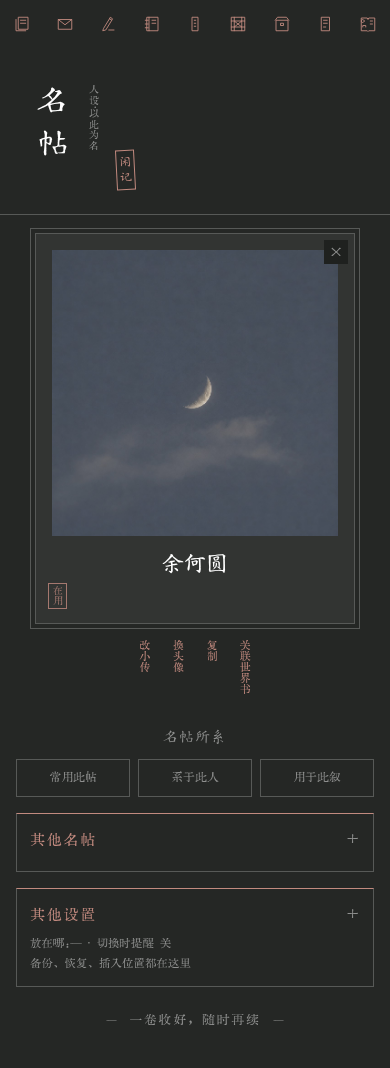
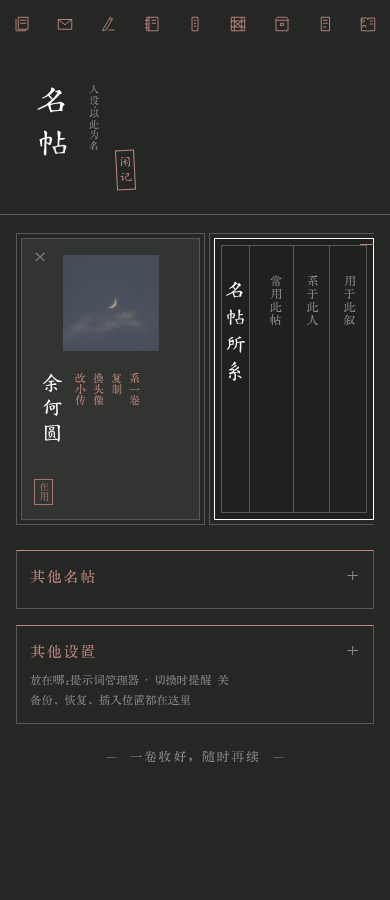
fix: restore compact persona card and downward settings expansion

diff --git a/tests/fixtures/folio-runtime.html b/tests/fixtures/folio-runtime.html
@@ -38,7 +38,7 @@
 <section id="user-settings-block" class="drawer-content openDrawer" hidden><input id="settingsSearch" placeholder="Search"><select id="themes"><option>Native theme</option></select><details><summary>主题设置</summary><div name="themeElements"><input type="range" value="50"></div></details><div name="CharacterHandlingToggles"><input type="checkbox"></div><div name="MiscellaneousToggles"><input type="checkbox"></div><div name="ChatMessageHandlingToggles"><input type="checkbox"></div><div name="AutoCompleteToggle" class="inline-drawer"><div class="inline-drawer-header inline-drawer-toggle"><b>输入提示</b><i class="inline-drawer-icon down"></i></div><div class="inline-drawer-content"><input type="checkbox"></div></div><div name="STscriptToggles"><input type="checkbox"></div></section>
 <section id="Backgrounds" class="drawer-content openDrawer bg-drawer-layout" hidden><div id="bg-header-fixed"><input id="bg-filter" placeholder="搜索背景"></div><div id="bg_tabs"><ul class="bg_tabs_list"><li>全局</li><li>聊天</li></ul><div id="bg_global_tab" class="bg_tab_panel"><div id="bg_menu_content"><div class="bg_example"><div class="thumbnail-clipper"><span class="BGSampleTitle">素纸</span></div><button class="mobile-only-menu-toggle" id="native-bg-menu">⋮</button><div class="jg-menu" hidden><button class="jg-button" data-action="edit" title="重命名">Edit</button></div></div></div></div></div><button id="bg-scroll-top">↑</button></section>
 <section id="rm_extensions_block" class="drawer-content openDrawer" hidden><div class="extensions_block"><div class="alignitemscenter"><div id="extensions_details" class="menu_button menu_button_icon interactable" role="button" tabindex="0">管理扩展</div><div id="third_party_extension_button" class="menu_button menu_button_icon interactable" role="button" tabindex="0">安装扩展</div></div><div id="extensions_settings2"><div class="inline-drawer"><div class="inline-drawer-header">正则</div><div class="inline-drawer-content"><input id="native-regex" value="pattern"></div></div><details id="native-extension-detail"><summary>代码渲染</summary><div class="inline-drawer"><div class="inline-drawer-header">渲染设置</div><div class="inline-drawer-content"><input value="render"></div></div></details></div></div></section>
-<section id="PersonaManagement" class="drawer-content openDrawer" hidden><div id="persona-management-block"><div class="persona_management_left_column"><div id="user_avatar_block"><div class="avatar-container selected" data-avatar-id="p1"><div class="avatar"><img src="../../assets/opening/light-avatar.jpg"></div></div></div></div><div class="persona_management_right_column"><h4>Persona</h4><textarea id="persona_description">行过山川，听人说话。</textarea><span id="your_name">余何圆</span><button id="persona_rename_button">Rename</button><button id="persona_set_image_button">Photo</button><button id="persona_duplicate_button">Duplicate</button><button id="persona_lore_button">Lore</button><button id="persona_delete_button">Delete</button><button id="lock_persona_default">Default</button><button id="lock_persona_to_char">Character</button><button id="lock_user_name">Chat</button></div></div></section>
+<section id="PersonaManagement" class="drawer-content openDrawer" hidden><div id="persona-management-block"><div class="persona_management_left_column"><div id="user_avatar_block"><div class="avatar-container selected" data-avatar-id="p1"><div class="avatar"><img src="../../assets/opening/light-avatar.jpg"></div></div></div></div><div class="persona_management_right_column"><h4>Persona</h4><textarea id="persona_description">行过山川，听人说话。</textarea><span id="your_name">余何圆</span><button id="persona_rename_button">Rename</button><button id="persona_set_image_button">Photo</button><button id="persona_duplicate_button">Duplicate</button><button id="persona_lore_button">Lore</button><button id="persona_delete_button">Delete</button><button id="lock_persona_default">Default</button><button id="lock_persona_to_char">Character</button><button id="lock_user_name">Chat</button><label>插入位置<select id="persona_description_position"><option value="0">提示词管理器</option><option value="1">作者注释</option></select></label><label><input id="persona_show_notifications" type="checkbox">切换时提醒</label></div></div></section>
 <section id="rm_characters_block" class="drawer-content openDrawer" hidden><input id="character_search_bar"><div id="rm_print_characters_block"><div class="character_select" chid="0"><div class="avatar"><img src="../../assets/opening/dark-avatar.jpg"></div><div class="character_select_container"><span class="ch_name">沈砚</span><span class="ch_description">檐下有雨，灯下有书。</span></div></div></div></section>
 <section id="rm_ch_create_block" class="drawer-content openDrawer" hidden><form id="form_create"><div id="avatar-and-name-block"><div id="avatar_div"><div id="avatar_div_div"><img id="avatar_load_preview" src="../../assets/opening/dark-avatar.jpg"></div></div><div id="name_div"><input id="character_name_pole" value="沈砚"></div><div id="avatar_controls"><button id="favorite_button">Favorite</button></div></div><div id="descriptionWrapper"><div id="description_div"><textarea id="description_textarea">山中旧友</textarea></div></div><div id="firstMessageWrapper"><textarea id="firstmessage_textarea">坐一会儿？</textarea></div></form></section>
 </main><div id="chat" hidden><div class="mes" is_user="false"><div class="mesAvatarWrapper"><div class="avatar"><img src="../../assets/opening/dark-avatar.jpg"></div><span class="timestamp">11月12日</span></div><div class="mes_block"><div class="ch_name"><span class="name_text">沈砚</span><div class="mes_buttons"><button id="native-edit">Edit</button></div></div><div class="mes_text"><p>疏雨过山，花影落在半卷书页上。</p></div></div></div><form id="send_form"><textarea placeholder="Message"></textarea></form>

diff --git a/assets/folio/folio.css b/assets/folio/folio.css
@@ -136,20 +136,24 @@ html.sb-bar.sb-folio #rm_print_characters_block .character_select .ch_descriptio
 html.sb-bar.sb-folio #rm_print_characters_block .character_select .ch_additional_info{display:none}
 html.sb-bar.sb-folio #rm_print_characters_block .character_select:after{content:'相见';position:absolute;right:16px;bottom:15px;writing-mode:vertical-rl;font:11px var(--sb-type-body);color:var(--sb-bar-accent);padding:0}
 html.sb-bar.sb-folio .sb-favrow img{width:54px;height:54px}
-html.sb-bar.sb-folio #PersonaManagement .sb-member{width:calc(100% - 10px);max-width:320px;margin:18px auto 24px;display:block;vertical-align:top}
-html.sb-bar.sb-folio #PersonaManagement .sb-mc{position:relative;display:flex;flex-direction:column;align-items:stretch;gap:14px;height:auto;padding:16px 16px 42px;border-radius:0;border:1px solid var(--sb-bar-line);outline:1px solid var(--sb-bar-line);outline-offset:4px;background:color-mix(in srgb,var(--sb-bar-bg) 94%,var(--sb-bar-ink));box-sizing:border-box}
-html.sb-bar.sb-folio #PersonaManagement .sb-mc>img{position:static;display:block;flex:none;width:100%;height:auto;aspect-ratio:1;border-radius:0;object-fit:cover}
-html.sb-bar.sb-folio #PersonaManagement .sb-mc-r{position:static;max-width:none;width:100%;padding:0;text-align:center}
-html.sb-bar.sb-folio #PersonaManagement .sb-mc-name{writing-mode:horizontal-tb;font:22px/1.4 var(--sb-type-script)!important;max-height:none;max-width:100%;white-space:nowrap;overflow:hidden;text-overflow:ellipsis;text-align:center}
+html.sb-bar.sb-folio #PersonaManagement .sb-member{flex:0 0 179px;width:179px;max-width:none;margin:0;display:block;vertical-align:top;scroll-snap-align:start}
+html.sb-bar.sb-folio #PersonaManagement .sb-mc{position:relative;display:block;height:282px;width:179px;padding:0;border-radius:0;border:1px solid var(--sb-bar-line);outline:1px solid var(--sb-bar-line);outline-offset:4px;background:color-mix(in srgb,var(--sb-bar-bg) 94%,var(--sb-bar-ink));box-sizing:border-box}
+html.sb-bar.sb-folio #PersonaManagement .sb-mc>img{position:absolute;left:41px;top:16px;display:block;width:96px;height:96px;aspect-ratio:1;border-radius:0;object-fit:cover}
+html.sb-bar.sb-folio #PersonaManagement .sb-mc-r{position:absolute;left:18px;top:132px;bottom:46px;max-width:24px;width:24px;padding:0;text-align:start}
+html.sb-bar.sb-folio #PersonaManagement .sb-mc-name{writing-mode:vertical-rl;text-orientation:mixed;font:20px/1.2 var(--sb-type-script)!important;max-height:100%;max-width:24px;white-space:nowrap;overflow:hidden;text-overflow:ellipsis;text-align:start}
 html.sb-bar.sb-folio #PersonaManagement .sb-mc-foot{position:absolute;bottom:16px;right:16px;display:block;width:auto;margin:0;padding:0;border:0;font:10px/1.3 var(--sb-type-body)}
-html.sb-bar.sb-folio #PersonaManagement .sb-card-remove{left:auto;right:6px;top:6px;background:var(--sb-bar-paper)}
+html.sb-bar.sb-folio #PersonaManagement .sb-card-remove{left:6px;right:auto;top:6px;background:none}
 html.sb-bar.sb-folio #PersonaManagement :is(.sb-mc-desc,.sb-mc-since,.sb-mc-no){display:none}
 html.sb-bar.sb-folio #PersonaManagement .sb-mc-use{font-size:0;position:absolute;left:12px;bottom:14px;top:auto;right:auto;border:1px solid var(--sb-bar-accent);padding:2px;writing-mode:vertical-rl;color:var(--sb-bar-accent)}
 html.sb-bar.sb-folio #PersonaManagement .sb-mc-use:after{content:'在用';font:10px var(--sb-type-body)}
-html.sb-bar.sb-folio #PersonaManagement .sb-acts{display:flex;justify-content:center;align-items:flex-start;gap:18px;flex-wrap:wrap;margin-top:16px}
-html.sb-bar.sb-folio #PersonaManagement .sb-acts button{font:400 11px/1.4 var(--sb-type-body)!important;writing-mode:vertical-rl;text-align:start;height:64px;background:none;border:0;padding:0;color:var(--sb-bar-accent)}
-html.sb-bar.sb-folio #PersonaManagement .sb-label{font:15px var(--sb-type-script);letter-spacing:1px;margin:20px 0 12px}
-html.sb-bar.sb-folio #PersonaManagement .sb-use button{font:12px/1.5 var(--sb-type-body);padding:9px 3px;border-radius:0}
+html.sb-bar.sb-folio #PersonaManagement .sb-acts{position:absolute;left:54px;right:12px;top:134px;bottom:auto;height:104px;display:flex;justify-content:flex-start;align-items:flex-start;gap:6px;flex-wrap:nowrap;margin:0}
+html.sb-bar.sb-folio #PersonaManagement .sb-acts button{font:400 11px/1.4 var(--sb-type-body)!important;writing-mode:vertical-rl;text-align:start;flex:0 0 12px;width:12px;height:104px;background:none;border:0;margin:0;padding:0;color:var(--sb-bar-accent)}
+html.sb-bar.sb-folio #PersonaManagement .sb-folio-scope-card .sb-use{position:absolute;inset:6px 6px 6px 42px;width:auto;display:grid;grid-template-columns:repeat(3,minmax(0,1fr));gap:0;margin:0;padding:0}
+html.sb-bar.sb-folio #PersonaManagement .sb-use button{display:flex;flex-direction:row;justify-content:flex-start;align-items:center;writing-mode:vertical-rl;text-orientation:mixed;font:13px/1.4 var(--sb-type-body);padding:30px 0 0;margin:0;border:0;border-right:1px solid var(--sb-bar-line);border-radius:0;white-space:nowrap;color:var(--sb-bar-sub)}
+html.sb-bar.sb-folio #PersonaManagement .sb-use button:last-child{border-right:0}
+html.sb-bar.sb-folio #PersonaManagement .sb-use button.on{color:var(--sb-bar-accent);background:color-mix(in srgb,var(--sb-bar-accent) 8%,transparent)}
+html.sb-bar.sb-folio #PersonaManagement:not(.sb-open-more) .sb-folio-persona-more{display:none!important}
+html.sb-bar.sb-folio #PersonaManagement .sb-folio-persona-more{padding:12px 0 18px;min-width:0;width:100%}
 html.sb-bar.sb-folio #PersonaManagement .sb-fold{border:1px solid var(--sb-bar-line);border-top-color:var(--sb-bar-accent);padding:14px 13px 12px;box-sizing:border-box}
 html.sb-bar.sb-folio .sb-foot{font-size:10px;margin:25px 0 18px}.sb-folio .sb-foot i{font:10px var(--sb-type-body)!important;letter-spacing:1px}
 html.sb-bar.sb-folio .sb-back button{font:11px var(--sb-type-body)}

diff --git a/docs/folio-review-fixes.md b/docs/folio-review-fixes.md
@@ -11,7 +11,7 @@
 - 装帧：小吧台及美化标题字体随样式切换；小调色盘在页面下方实时预览背景，取消恢复原色，确认才通过原保存流程写入。拦截调色操作的外部点击，保留当前设置页和滚动位置。所有分组使用闭合细框。
 - 借景：标题、工具栏和图片在同一滚动区域内；保留原菜单与回到顶部操作。
 - 百工匣：修复两个入口的白色焦点框与点击区域溢出，键盘焦点使用主题色提示；下方分组补齐四边，原生 details 包裹时避免双层框。
-- 名帖：上方为占据卡片主要面积的方形头像，下方显示名字与操作；三个范围显示“常用此帖／系于此人／用于此叙”，分别对应原生默认人设、当前角色、当前聊天的锁定按钮。其余分组补齐细框。
+- 名帖：恢复 179 × 282 的原卡片尺寸，上方为约三分之一高度的方形头像，下方姓名与操作紧凑竖排；“名帖所系”放在相邻的等距竖栏卡片中；关联世界书显示为“系一卷”；其他设置从标题下方展开；三个范围显示“常用此帖／系于此人／用于此叙”，分别对应原生默认人设、当前角色、当前聊天的锁定按钮。其余分组补齐细框。
 
 ## 本地审阅图
 
